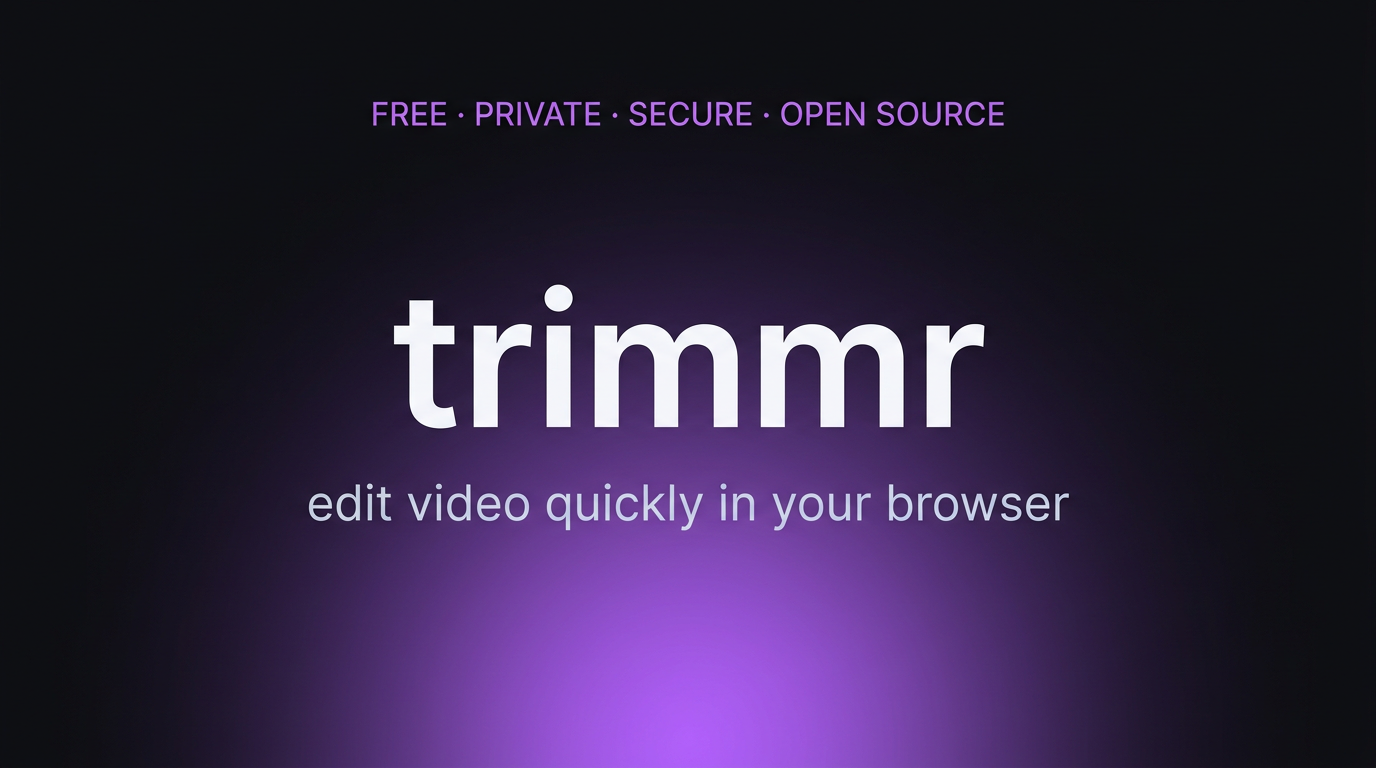
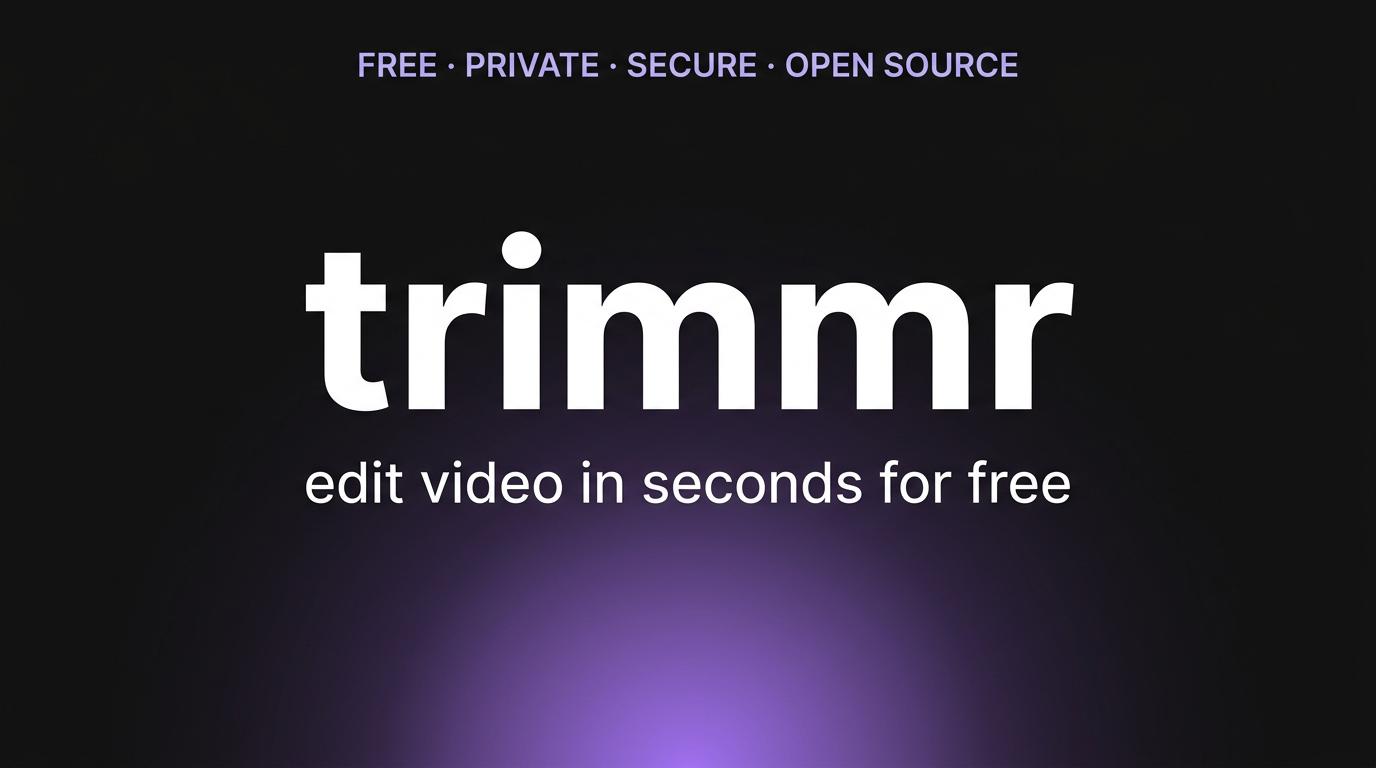
update tagline

diff --git a/apps/web/index.html b/apps/web/index.html
@@ -4,13 +4,13 @@
     <meta charset="UTF-8" />
     <link rel="icon" type="image/svg+xml" href="/favicon.svg" />
     <meta name="viewport" content="width=device-width, initial-scale=1, viewport-fit=cover" />
-    <title>trimmr — edit video in seconds</title>
+    <title>trimmr — edit video in seconds for free</title>
     <meta
       name="description"
       content="Free, private, and secure: edit videos and GIFs in seconds, then export or convert to other video file formats. Your files never leave your computer—with no upload and no account, totally for free!"
     />
     <link rel="canonical" href="https://trimmr.xyz/" />
-    <meta property="og:title" content="trimmr — edit video in seconds" />
+    <meta property="og:title" content="trimmr — edit video in seconds for free" />
     <meta
       property="og:description"
       content="Free, private, and secure: edit videos and GIFs in seconds, then export or convert to other video file formats. Your files never leave your computer—with no upload and no account, totally for free!"
@@ -20,7 +20,7 @@
     <meta property="og:image" content="https://trimmr.xyz/og-image.png" />
     <meta property="og:image:width" content="1376" />
     <meta property="og:image:height" content="768" />
-    <meta property="og:image:alt" content="trimmr — edit video in seconds" />
+    <meta property="og:image:alt" content="trimmr — edit video in seconds for free" />
     <meta name="twitter:card" content="summary_large_image" />
     <meta name="twitter:image" content="https://trimmr.xyz/og-image.png" />
     <script type="application/ld+json">
